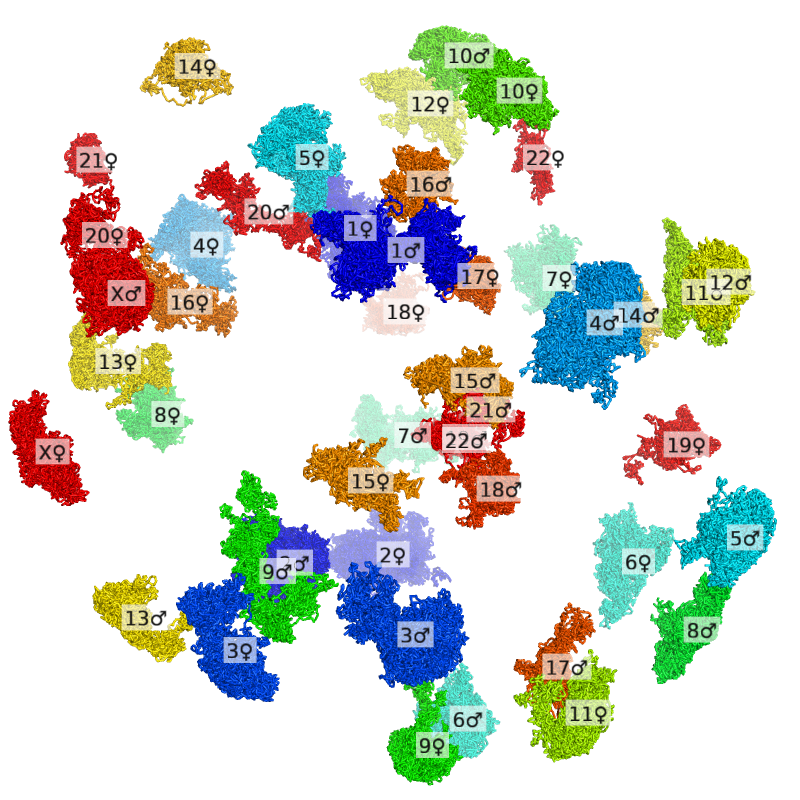
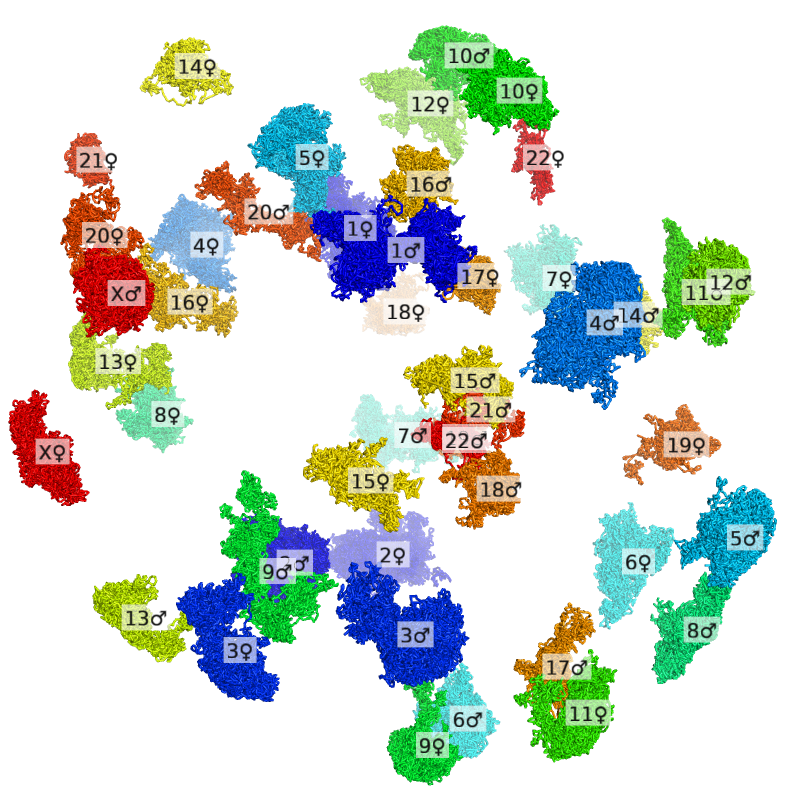
readme: typo in coloring by chr

diff --git a/README.md b/README.md
@@ -279,7 +279,7 @@ viewport 800, 800
 set ray_shadows,0
 as sticks, all
 set_bond stick_radius, 0.5, all
-spectrum b, rainbow, all, 1, 20
+spectrum b, rainbow, all, 1, 23
 ```
 
 The image can be stored as a `.png` file by running:
